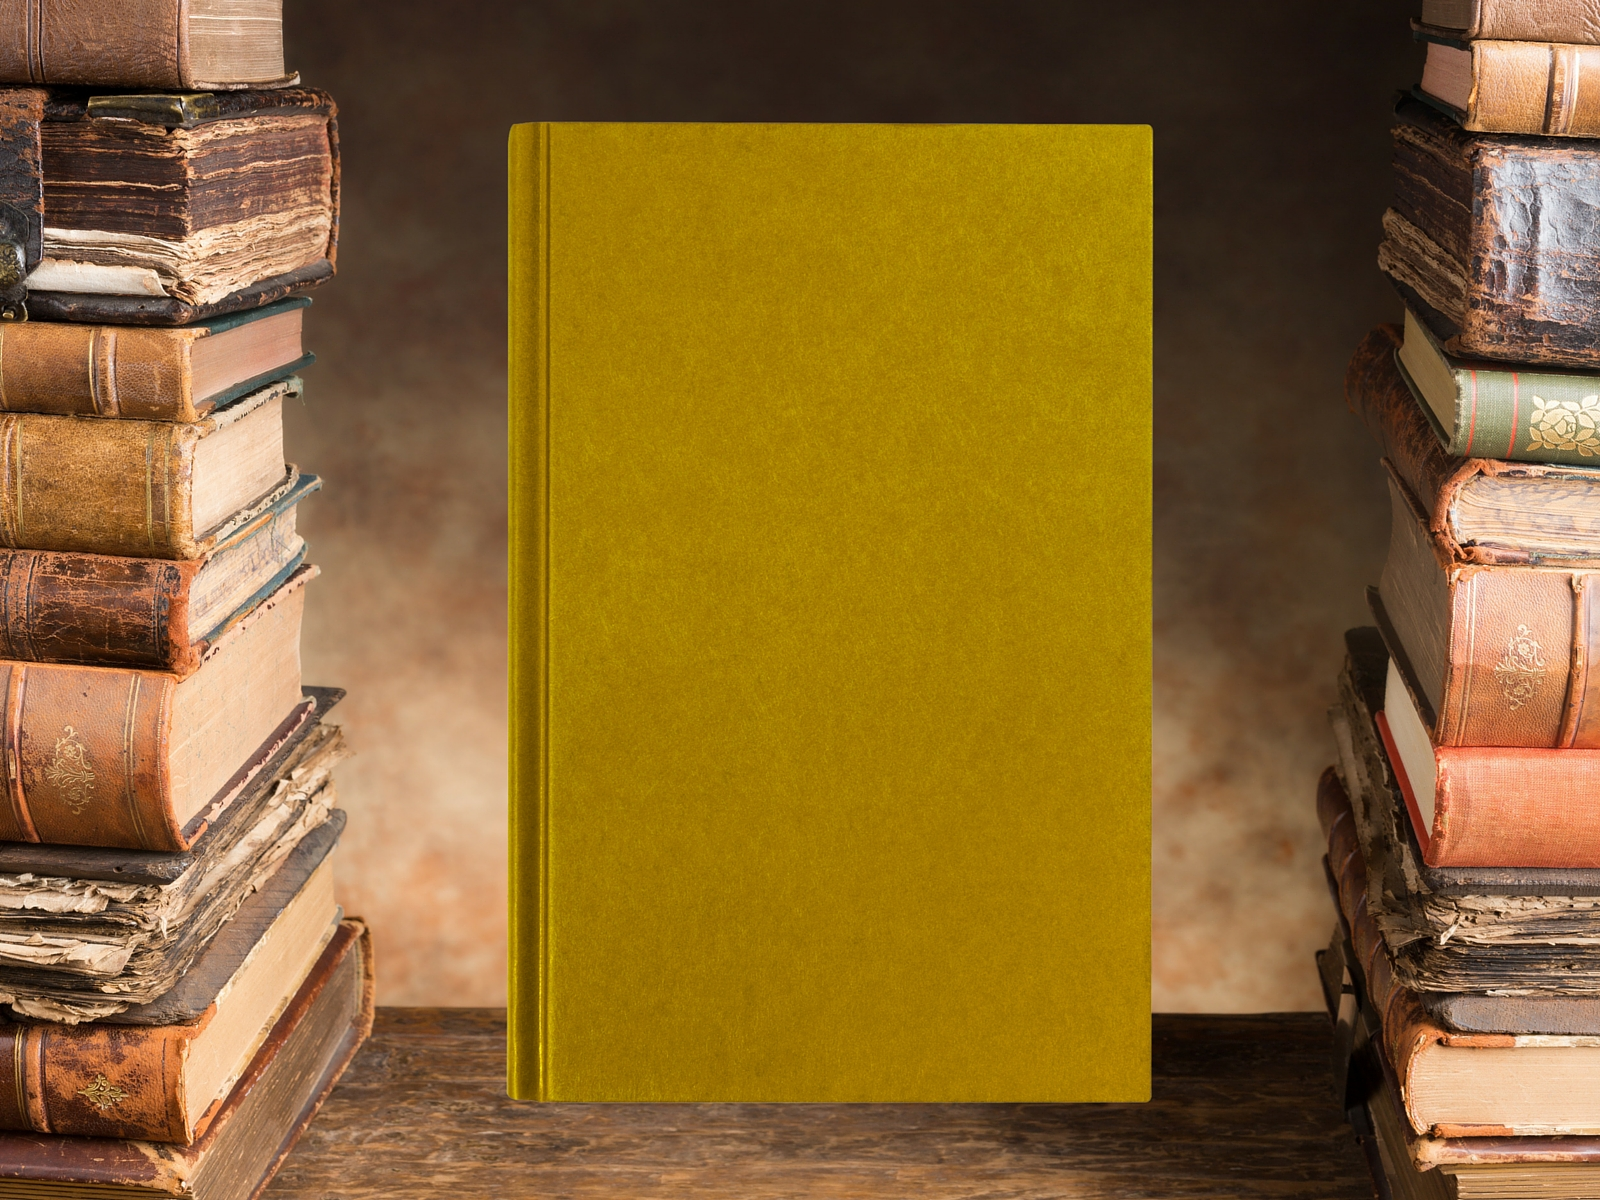
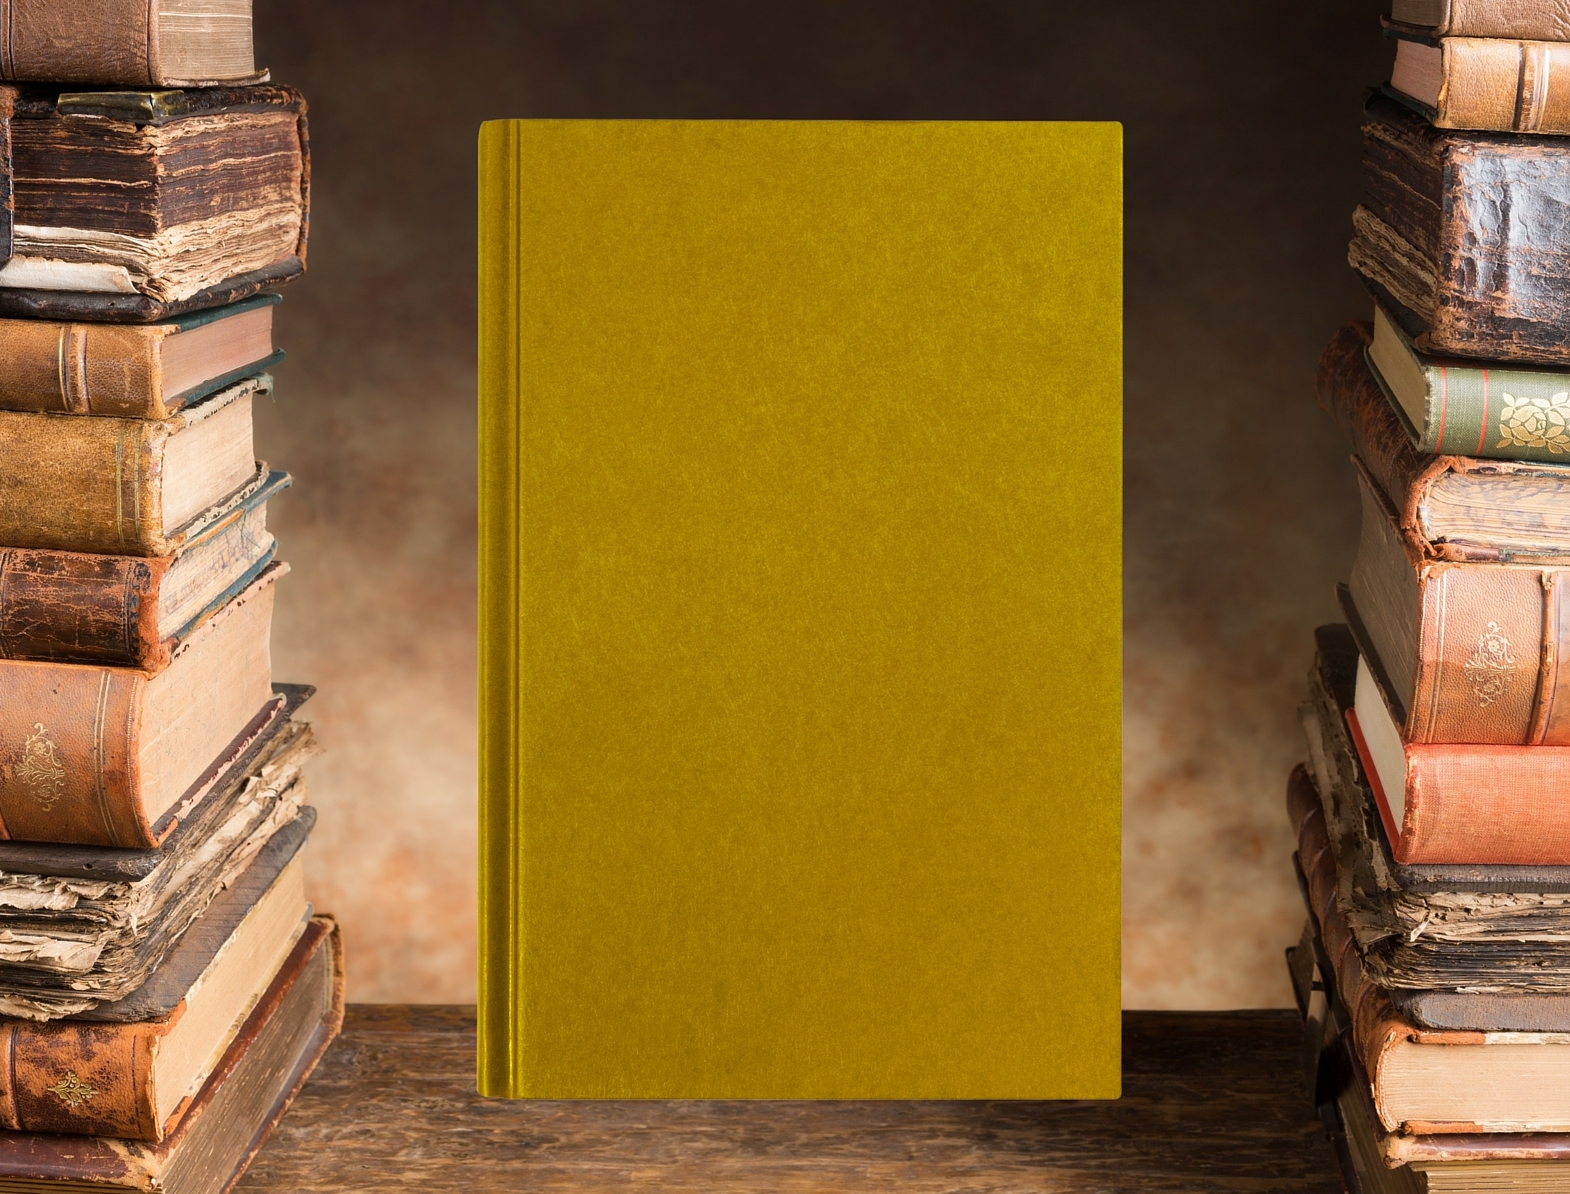
responsive for mobile in landscape

diff --git a/app/assets/stylesheets/application.scss b/app/assets/stylesheets/application.scss
@@ -1,7 +1,7 @@
 @import "bootstrap-sprockets";
 @import "bootstrap";
 
-@media only screen and ( min-width: 990px ) {
+@media only screen and ( min-width: 992px ) {
   .front-page { 
     background: image-url('book_cover.jpg') no-repeat center center fixed; 
     -webkit-background-size: cover;
@@ -107,7 +107,7 @@
   }
 }
 
-@media only screen and (min-width: 769px) and (max-width: 990px) {
+@media only screen and (min-width: 769px) and (max-width: 991px) {
   .front-page { 
     background: image-url('book_cover.jpg') no-repeat center center fixed; 
     -webkit-background-size: cover;
@@ -157,11 +157,68 @@
     padding-top: 5%;
     padding-bottom: 5%;
   }
+  .box-right {
+    display:none;
+  }
 }
 
 
 
-@media only screen and ( min-width: 480px ) and (max-width: 768px) {
+@media only screen and ( min-width: 480px ) and (max-width: 768px) and (orientation:portrait) {
+  .front-page { 
+    background: image-url('book_cover.jpg') no-repeat center center fixed; 
+    -webkit-background-size: cover;
+    -moz-background-size: cover;
+    -o-background-size: cover;
+    background-size: cover;
+    height:100vh;
+  }
+  .box {
+    border-radius: 5px;
+    margin-left: 30%;
+    margin-right: 22%;
+    padding-top: 40%;
+    text-align: center;
+    color: black;
+  }
+  .box-left, .background-box {
+    background:rgba(255,255,255, 0.4);
+    padding-left: 5%;
+    margin-left: 10%;
+    margin-right: 10%;
+    height: 1000px;
+  }
+  .book-list-page, .book-info-page {
+    background: image-url('books-on-the-side.jpg') no-repeat center center fixed; 
+    -webkit-background-size: cover;
+    -moz-background-size: cover;
+    -o-background-size: cover;
+    background-size: cover;
+    min-height: 1024px;
+    padding-top: 3%;
+
+    #book-image {
+      height: 150px;
+      width: auto;
+      display: inline-block;
+      float: left;
+      margin: 10px 10px 10px 0;
+      border-style: solid;
+      border-width: 2px;
+      border-color: black;
+    }
+  }
+  .background-box {
+    height: 100%;
+    padding-top: 5%;
+    padding-bottom: 5%;
+  }
+  .box-right {
+    display:none;
+  }
+}
+
+@media only screen and ( min-width: 480px ) and (max-width: 768px) and (orientation:landscape) {
   .front-page { 
     background: image-url('book_cover.jpg') no-repeat center center fixed; 
     -webkit-background-size: cover;
@@ -212,9 +269,9 @@
   }
 }
 
-@media only screen and (max-width: 479px) {
+@media only screen and (max-width: 479px) and (orientation:portrait) {
   .front-page { 
-    background: image-url('book_cover.jpg') no-repeat center center fixed; 
+    background: image-url('book_cover_2.jpg') no-repeat center center fixed; 
     -webkit-background-size: cover;
     -moz-background-size: cover;
     -o-background-size: cover;
@@ -266,6 +323,67 @@
     padding-top: 5%;
     padding-bottom: 5%;
   }
+  .hidden {
+    display:none;
+  }
 }
 
+@media only screen and (max-width: 800px) and (orientation:landscape) {
+  .front-page { 
+    background: image-url('book_cover.jpg') no-repeat center center fixed; 
+    -webkit-background-size: cover;
+    -moz-background-size: cover;
+    -o-background-size: cover;
+    background-size: cover;
+    height:100vh;
+  }
+  .box {
+    border-radius: 5px;
+    margin-left: 35%;
+    margin-right: 31%;
+    padding-top: 15%;
+    text-align: center;
+    color: black;
+  }
+  .box-left, .background-box {
+    background:rgba(255,255,255, 0.4);
+    padding-left: 5%;
+    padding-right: 5%;
+    margin-left: 20%;
+    margin-right: 15%;
+    height: 1000px;
+    img {
+      max-width: 100%;
+    }
+
+  }
+  .book-list-page, .book-info-page {
+    background: image-url('books-on-the-side.jpg') no-repeat center center fixed; 
+    -webkit-background-size: cover;
+    -moz-background-size: cover;
+    -o-background-size: cover;
+    background-size: cover;
+    min-height: 1024px;
+    padding-top: 3%;
+
+    #book-image {
+      height: 150px;
+      width: auto;
+      display: inline-block;
+      float: left;
+      margin: 10px 10px 10px 0;
+      border-style: solid;
+      border-width: 2px;
+      border-color: black;
+    }
+  }
+  .background-box {
+    height: 100%;
+    padding-top: 5%;
+    padding-bottom: 5%;
+  }
+  .hidden {
+    display:none;
+  }
+}
 

diff --git a/app/assets/javascripts/lists.js b/app/assets/javascripts/lists.js
@@ -3,6 +3,10 @@ $(function() {
     var id = $(this).val();
     window.location.href = '/lists/'+ id;
   });
+// // try moving this out of the function and changing screen size 
+//   if($(window).width() <= 769){ 
+//       $('.box-right').addClass('hidden');
+//   }
 
   $('.more-info').click(function(event){
     event.preventDefault();
@@ -19,7 +23,7 @@ $(function() {
     var imageUrl = $(event.currentTarget).data('image')
     var rank = $(event.currentTarget).data('rank')
 
-    if($(window).width() <= 990){
+    if($(window).width() <= 992){
       window.location.href = '/books/' + id;
     }
 
